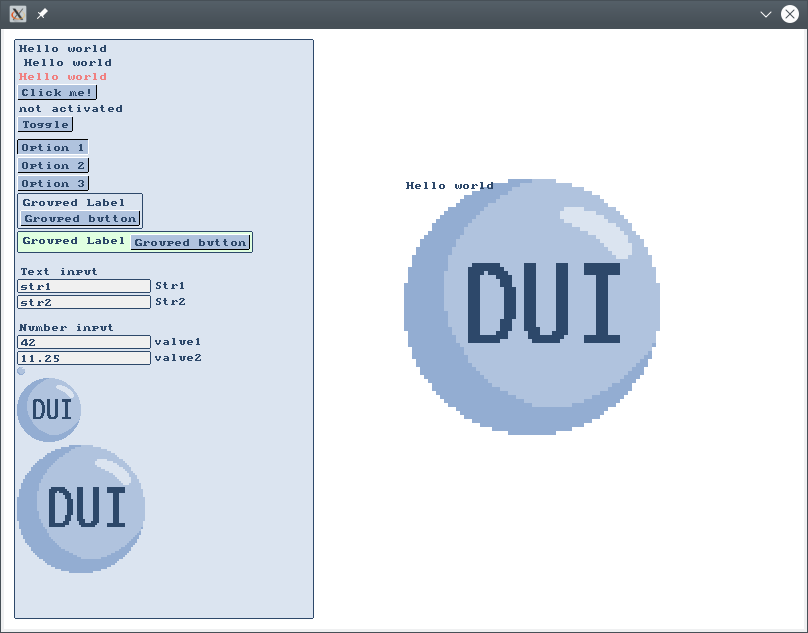
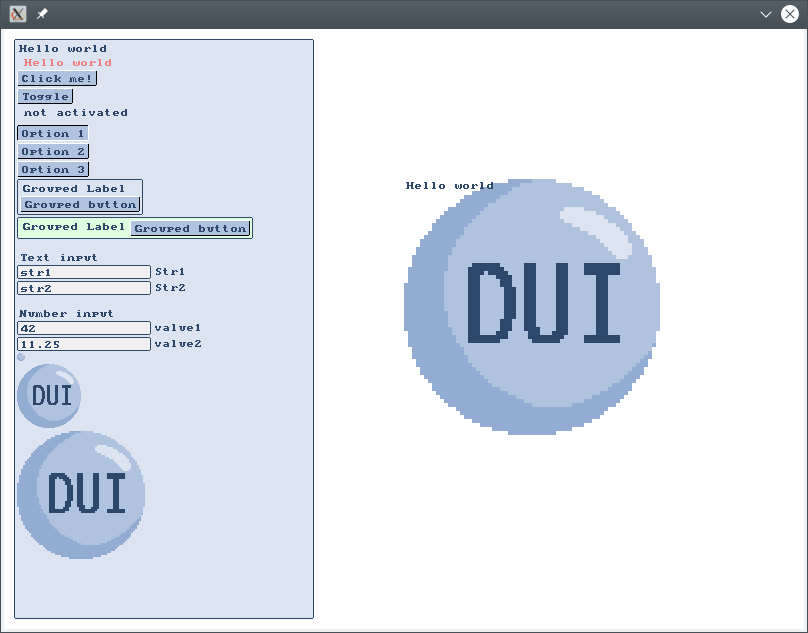
Better documenting elements_demo.cpp

Changed region(s): [[0.0, 0.09, 0.3094, 0.9305]]

diff --git a/examples/elements_demo.cpp b/examples/elements_demo.cpp
@@ -1,3 +1,4 @@
+#include <sstream>
 #include <string>
 #include <SDL.h>
 #include "dui.hpp"
@@ -21,6 +22,9 @@ main(int argc, char** argv)
   dui::State state{renderer};
 
   // Some test variables
+  int clickCount = 0;
+  std::string clickMeStr{"Click me!"};
+
   bool toggleOption = false;
   enum MultiOption
   {
@@ -35,6 +39,7 @@ main(int argc, char** argv)
   std::string str2 = "str2";
   int value1 = 42;
   double value2 = 11.25;
+
   std::string basePath = SDL_GetBasePath();
   SDL_Surface* surface = SDL_LoadBMP((basePath + "../dui.bmp").c_str());
   SDL_SetColorKey(surface, 1, 0);
@@ -52,38 +57,63 @@ main(int argc, char** argv)
 
     // UI
     auto f = dui::frame(state);
+
+    // Free label
     dui::label(f, "Hello world", {400, 150});
 
+    // Main panel
     auto p = dui::panel(f, "mainPanel", {10, 10, 300, 580});
+    // dui::label(f, "Error"); // You can not add anything to the frame until
+    // you call p.end()
+
+    // Labels inside the panel
     dui::label(p, "Hello world");
-    dui::label(p, "Hello world", {5});
     dui::label(p,
                "Hello world",
-               {},
+               {5},
                dui::style::LABEL.withText({0xf0, 0x80, 0x80, 0xff}));
-    if (dui::button(p, "Click me!")) {
-      SDL_ShowSimpleMessageBox(SDL_MESSAGEBOX_INFORMATION,
-                               "Clicked",
-                               "You clicked the button",
-                               window);
+
+    // Push button example. It returns true only when you click on it (press and
+    // release)
+    if (dui::button(p, "Click me!", clickMeStr)) {
+      clickCount += 1;
+      std::stringstream ss;
+      ss << "Click count: " << clickCount;
+      clickMeStr = ss.str();
     }
-    dui::label(p, toggleOption ? "activated" : "not activated");
+
+    // A button that presents the state of boolean, being pressed if true and
+    // released if false, inverting its value if clicked.
     if (dui::toggleButton(p, "Toggle", &toggleOption)) {
+      // Like button(), it also returns true on click, so you can do a special
+      // action
       SDL_Log("Toggled options, new value is, %s",
               toggleOption ? "true" : "false");
     }
+    dui::label(p, toggleOption ? "activated" : "not activated", {5});
+
+    // Choice buttons: similar to toggle buttons, but for any types
     if (dui::choiceButton(p, "Option 1", &multiOption, OPTION1, {0, 5})) {
+      // Like button(), it also returns true on click, so you can do a special
+      // action.
       SDL_Log("Selected Option %d", 1 + multiOption);
+      // Pay attention we only log when optin 1 was chose and not when 2 or 3.
     }
     dui::choiceButton(p, "Option 2", &multiOption, OPTION2);
     dui::choiceButton(p, "Option 3", &multiOption, OPTION3);
+
+    // Using a panel to group elements. You can replace panel() by group() if
+    // you don't want borders/custom color
     if (auto g = dui::panel(p, "group1")) {
       dui::label(g, "Grouped Label");
       dui::button(g, "Grouped button");
       g.end();
     }
+
+    // Example changing background color of the next panel
     auto panelStyle = dui::style::PANEL;
     panelStyle.border.center = {224, 255, 224, 255};
+    // And also making it grow horizontally
     if (auto g =
           dui::panel(p, "group2", {0}, dui::Layout::HORIZONTAL, panelStyle)) {
       dui::label(g, "Grouped Label");
@@ -91,19 +121,26 @@ main(int argc, char** argv)
       g.end();
     }
 
+    // Text input examples
     dui::label(p, "Text input", {0, 10});
     dui::textField(p, "Str1", str1, str1Size);
     dui::textField(p, "Str2", &str2);
 
+    // numeric input examples
     dui::label(p, "Number input", {0, 10});
     dui::intField(p, "value1", &value1);
     dui::doubleField(p, "value2", &value2);
 
+    // images
     dui::texturedBox(p, texture, {0, 0, 8, 8});
     dui::texturedBox(p, texture, {0, 1, 64, 64});
     dui::texturedBox(p, texture, {0, 1, 128, 128});
 
+    // Here we end the panel p, we can add elements to the frame directly again
+    // after that
     p.end();
+
+    // For example, we can add this big texture
     dui::texturedBox(f, texture, {400, 150, 256, 256});
 
     // Render

diff --git a/README.md b/README.md
@@ -166,12 +166,16 @@ header:
 Elements
 --------
 
-<!-- List and explain all elements we support -->
+We support a short but useful number of elements. You can see an comprehensive
+example at [elements_demo.cpp][elements_demo].
+
+[elements_demo]: examples/elements_demo.cpp
 
 Contributing
 ------------
 
-<!-- TODO -->
+Just open an issue if you have a problem, and just open a pull request if you
+have an solution.
 
 Credits
 -------
